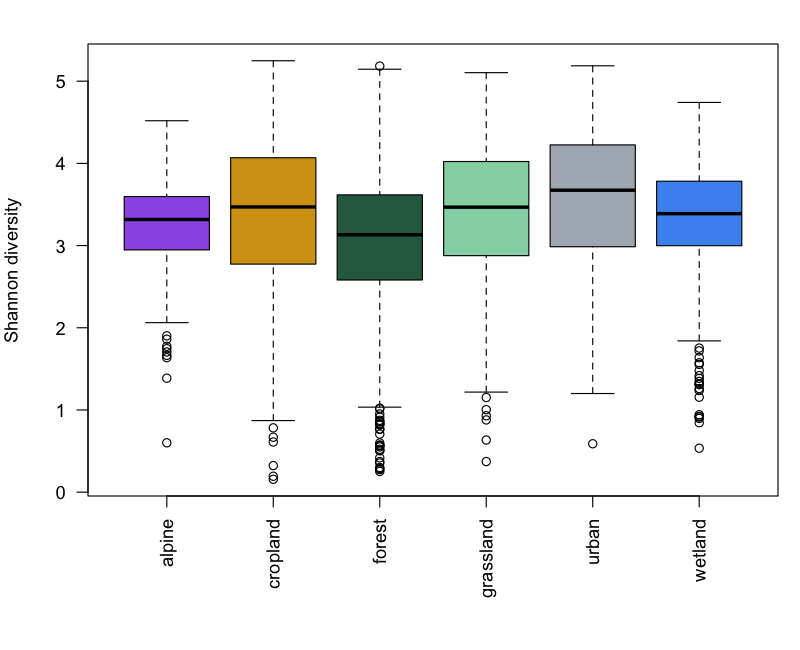
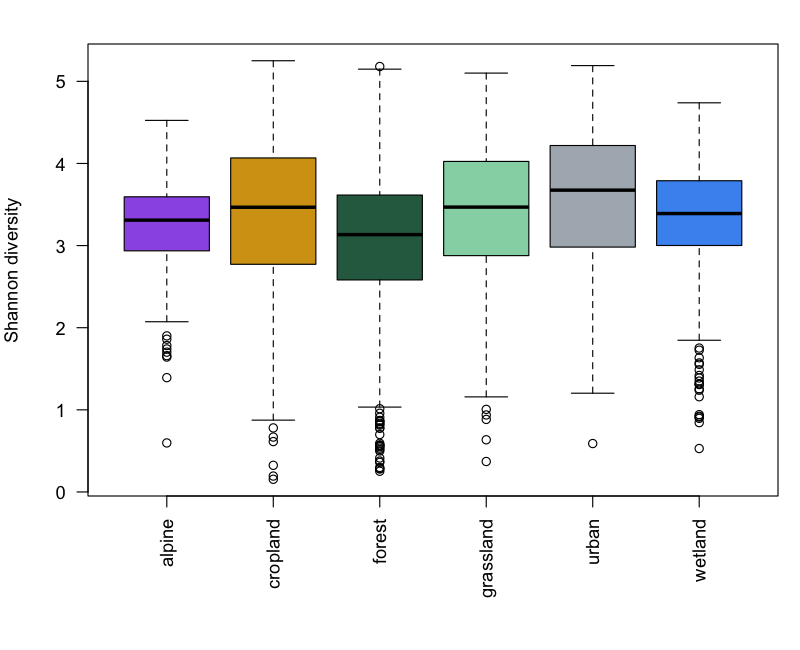
Use ecolongr 0.2.2, which makes rarefying reproducible
el_rrarefy() in 0.2.2 sorts its input before drawing, so set.seed()
now gives the same result in every build. Rebuild the step 6 figures.

diff --git a/docs/tutorial-01-setup.html b/docs/tutorial-01-setup.html
@@ -271,10 +271,10 @@ Note
 <span id="cb4-4"><a href="#cb4-4" aria-hidden="true" tabindex="-1"></a>))</span>
 <span id="cb4-5"><a href="#cb4-5" aria-hidden="true" tabindex="-1"></a></span>
 <span id="cb4-6"><a href="#cb4-6" aria-hidden="true" tabindex="-1"></a>remotes<span class="sc">::</span><span class="fu">install_github</span>(<span class="st">"biodiversitydata-se/asvoccur@v1.3.0"</span>)</span>
-<span id="cb4-7"><a href="#cb4-7" aria-hidden="true" tabindex="-1"></a>remotes<span class="sc">::</span><span class="fu">install_github</span>(<span class="st">"biodiversitydata-se/ecolongr@0.2.1"</span>)</span></code></pre></div><button title="Copy to Clipboard" class="code-copy-button"><i class="bi"></i></button></div>
+<span id="cb4-7"><a href="#cb4-7" aria-hidden="true" tabindex="-1"></a>remotes<span class="sc">::</span><span class="fu">install_github</span>(<span class="st">"biodiversitydata-se/ecolongr@0.2.2"</span>)</span></code></pre></div><button title="Copy to Clipboard" class="code-copy-button"><i class="bi"></i></button></div>
 <p>Load the packages using the code above. Check the versions:</p>
 <div class="code-copy-outer-scaffold"><div class="sourceCode" id="cb5"><pre class="sourceCode r code-with-copy"><code class="sourceCode r"><span id="cb5-1"><a href="#cb5-1" aria-hidden="true" tabindex="-1"></a><span class="fu">packageVersion</span>(<span class="st">"asvoccur"</span>)  <span class="co"># 1.3.0</span></span>
-<span id="cb5-2"><a href="#cb5-2" aria-hidden="true" tabindex="-1"></a><span class="fu">packageVersion</span>(<span class="st">"ecolongr"</span>)  <span class="co"># 0.2.1</span></span></code></pre></div><button title="Copy to Clipboard" class="code-copy-button"><i class="bi"></i></button></div>
+<span id="cb5-2"><a href="#cb5-2" aria-hidden="true" tabindex="-1"></a><span class="fu">packageVersion</span>(<span class="st">"ecolongr"</span>)  <span class="co"># 0.2.2</span></span></code></pre></div><button title="Copy to Clipboard" class="code-copy-button"><i class="bi"></i></button></div>
 </section>
 <section id="download-example-data" class="level3">
 <h3 class="anchored" data-anchor-id="download-example-data">Download example data</h3>
